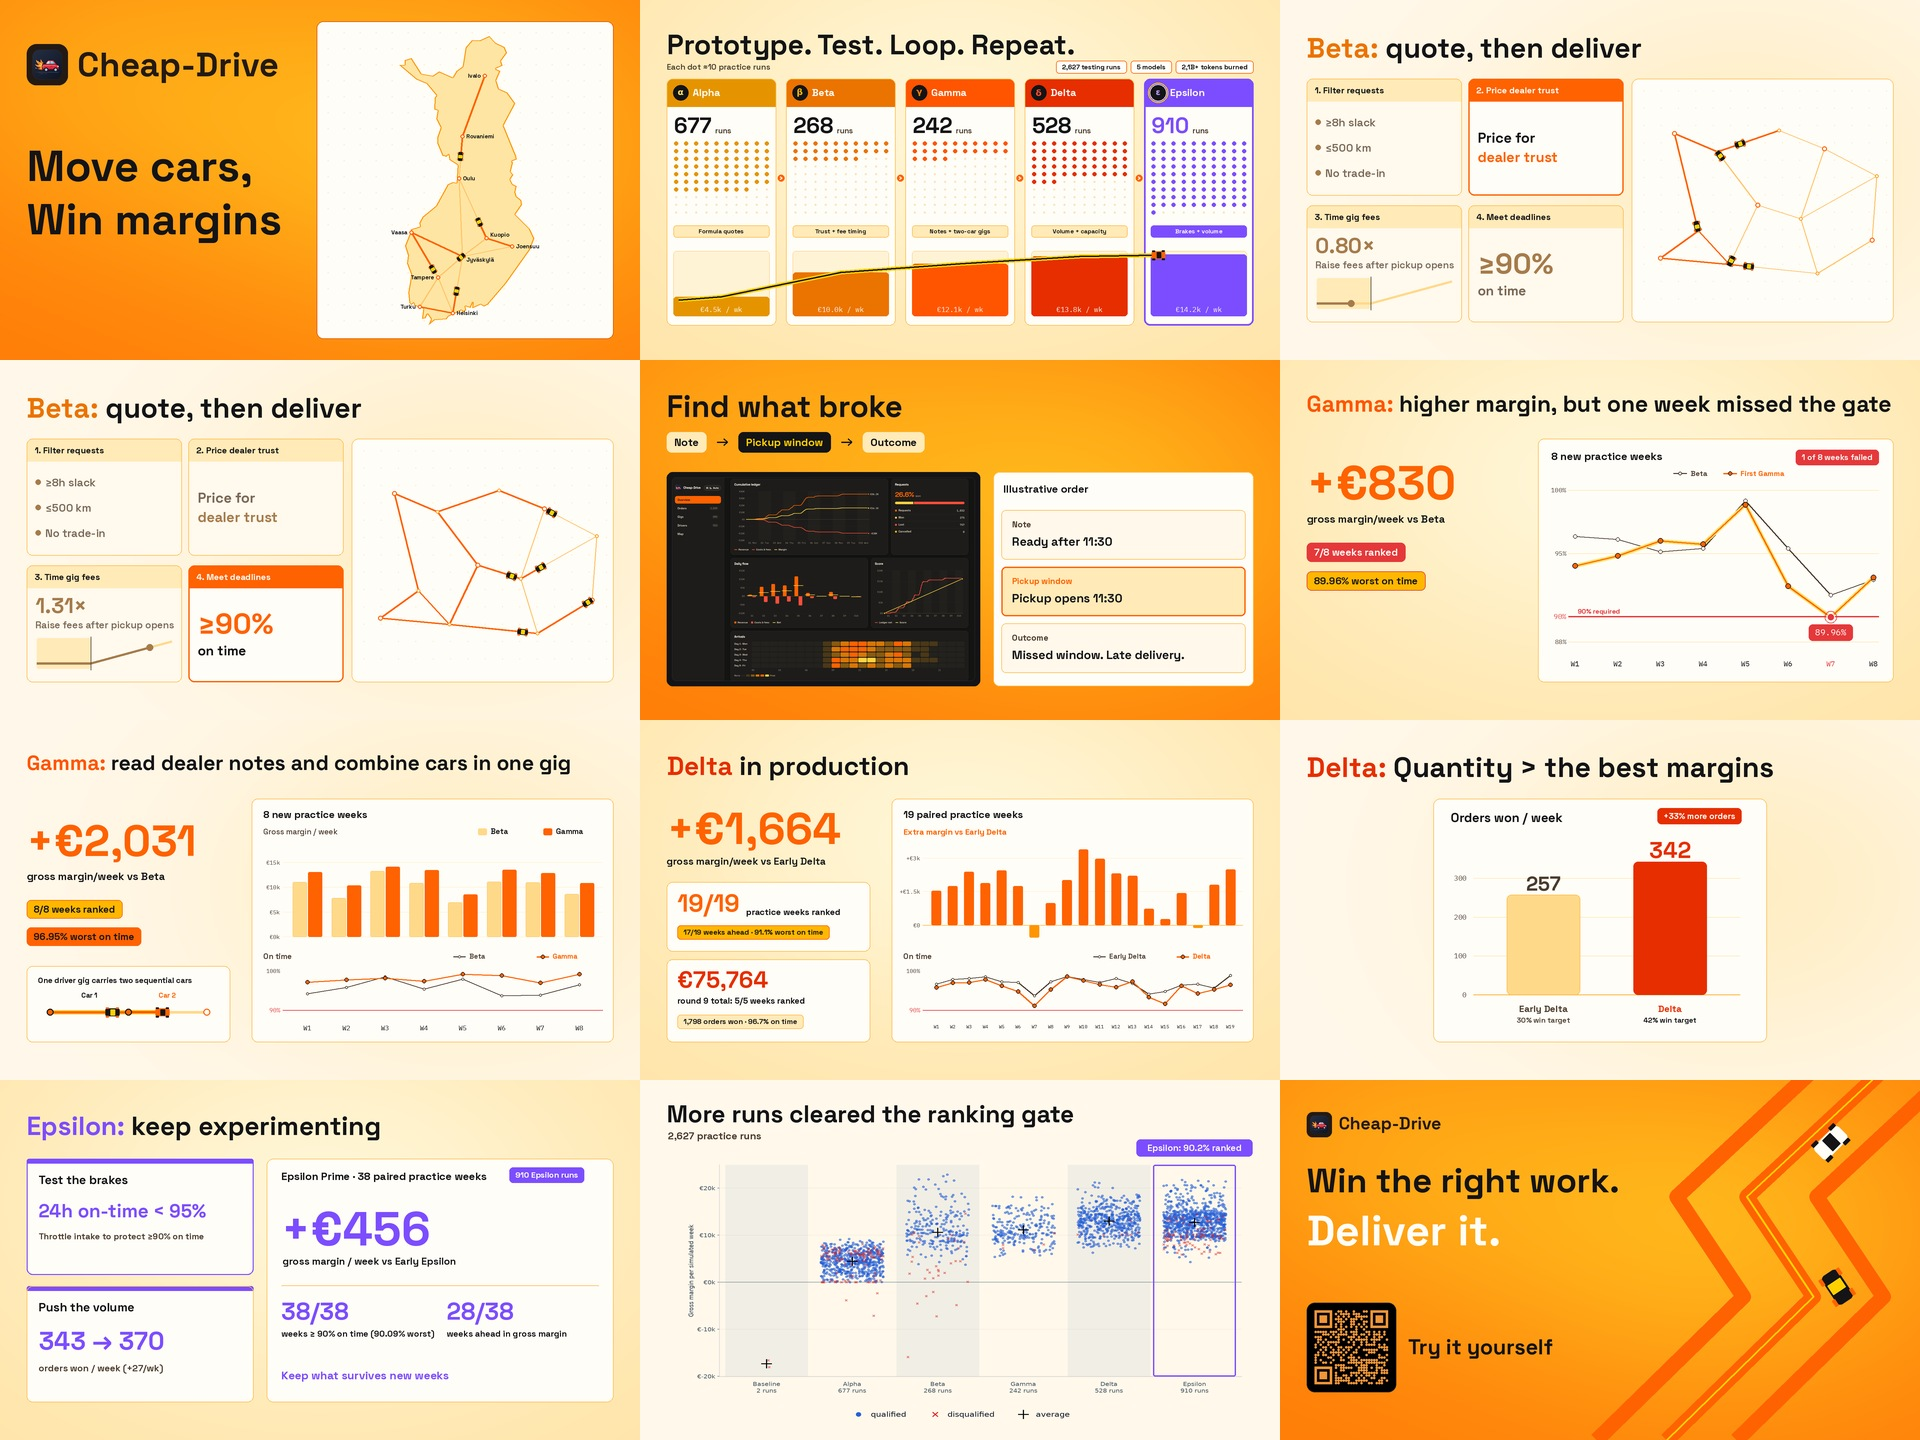
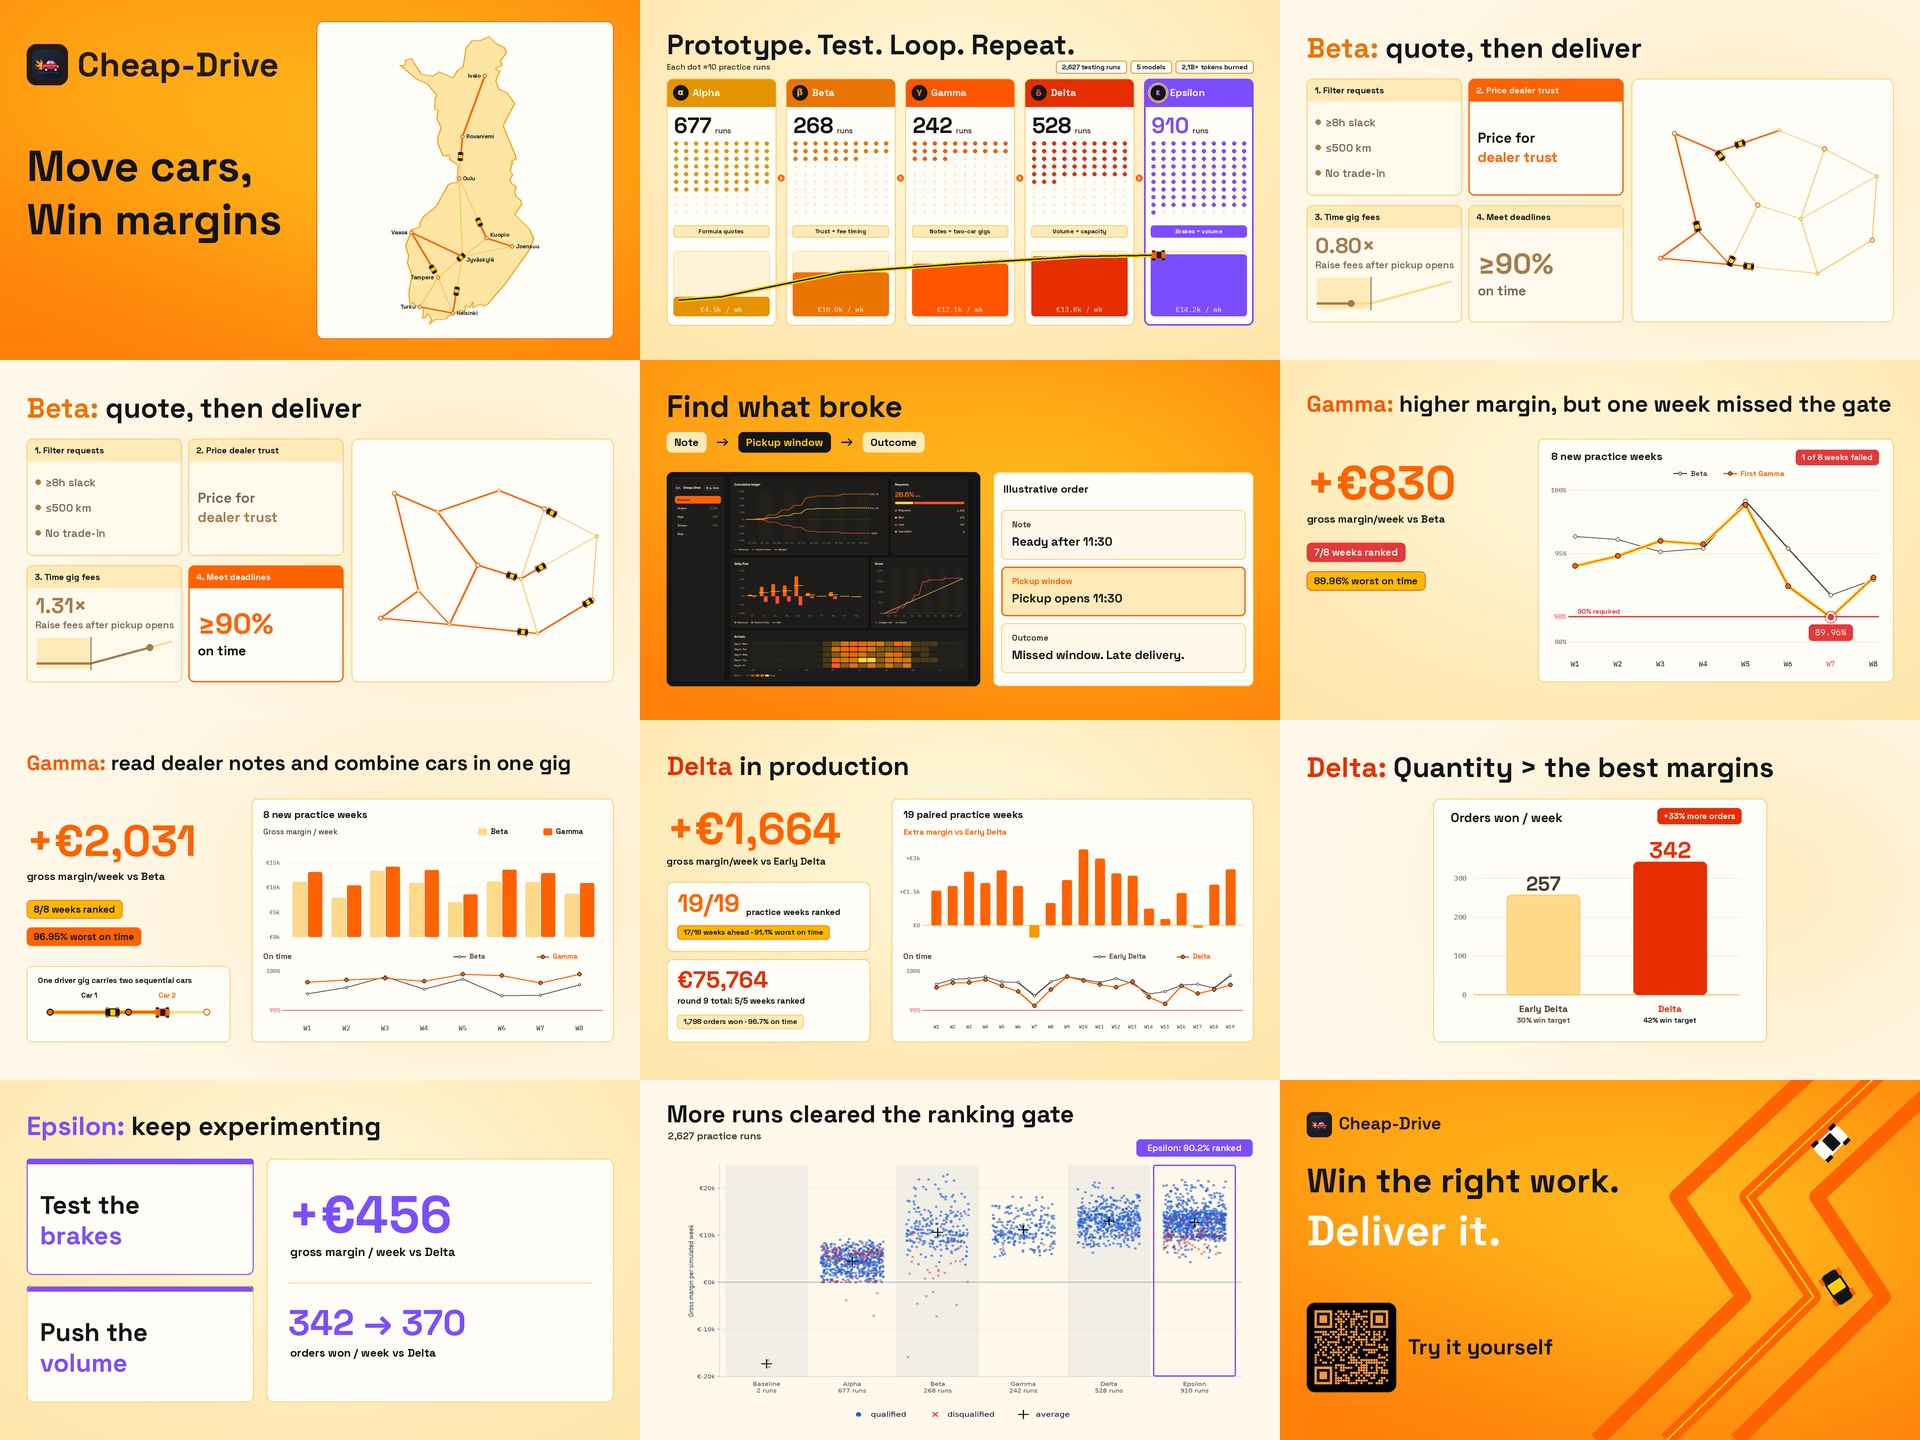
Simplify Slide 9 (Epsilon) to compare directly vs Delta and remove extra text

Changed region(s): [[0.125, 0.8125, 0.3125, 0.9688], [0.0, 0.8125, 0.0938, 0.875], [0.0, 0.9062, 0.0938, 0.9688]]

diff --git a/docs/demo-video/index.html b/docs/demo-video/index.html
@@ -40,8 +40,8 @@
 </head>
 <body>
   <main class="stage">
-    <video controls autoplay playsinline preload="auto" poster="poster.png?v=2627c" src="cheap-drive-demo.mp4?v=2627c">
-      <track kind="captions" src="captions.vtt?v=2627c" srclang="en" label="English">
+    <video controls autoplay playsinline preload="auto" poster="poster.png?v=2627d" src="cheap-drive-demo.mp4?v=2627d">
+      <track kind="captions" src="captions.vtt?v=2627d" srclang="en" label="English">
     </video>
   </main>
 </body>

diff --git a/docs/demo-video/render.py b/docs/demo-video/render.py
@@ -1010,47 +1010,37 @@ def delta_iteration(t):
 
 
 # ---------------------------------------------------------------------------
-# Slide 9 (53–60s): Epsilon: keep experimenting (matching presentation Slide 9)
+# Slide 9 (53–60s): Epsilon: keep experimenting (clean comparison vs Delta)
 # ---------------------------------------------------------------------------
 def epsilon_slide(t):
     im = base_canvas('sunburst').copy()
     eps_col = '#7C4DFF'
     enter_model_hdr(im, 'Epsilon:', ' keep experimenting', 80, 88, 78, t, .05, model_color=eps_col, rest_color=INK, weight=700)
 
-    # Left column: Two clean top-accented cards ("Test the brakes", "Push the volume") aligned to y = 966
+    # Left column: Two clean, bold pillar cards matching Presentation Slide 9
     rect(im, (80, 236, 760, 584), CARD, None, r=18)
-    rect(im, (80, 236, 760, 250), eps_col, None, r=18)
-    rect(im, (80, 244, 760, 250), eps_col, None, r=0)
+    rect(im, (80, 236, 760, 252), eps_col, None, r=18)
+    rect(im, (80, 244, 760, 252), eps_col, None, r=0)
     rect(im, (80, 236, 760, 584), None, eps_col, r=18, width=3)
-    txt(im, 'Test the brakes', 116, 276, 36, INK, 700)
-    txt(im, '24h on-time < 95%', 116, 356, 56, eps_col, 700)
-    txt(im, 'Throttle intake to protect ≥90% on time', 116, 452, 26, MUTED_INK, 650)
+    txt(im, 'Test the', 120, 326, 76, INK, 700)
+    txt(im, 'brakes', 120, 418, 76, eps_col, 700)
 
     rect(im, (80, 618, 760, 966), CARD, None, r=18)
-    rect(im, (80, 618, 760, 632), eps_col, None, r=18)
-    rect(im, (80, 626, 760, 632), eps_col, None, r=0)
+    rect(im, (80, 618, 760, 634), eps_col, None, r=18)
+    rect(im, (80, 626, 760, 634), eps_col, None, r=0)
     rect(im, (80, 618, 760, 966), None, GOLD_LINE, r=18, width=2)
-    txt(im, 'Push the volume', 116, 658, 36, INK, 700)
-    txt(im, '343 → 370', 116, 734, 76, eps_col, 700)
-    txt(im, 'orders won / week (+27/wk)', 116, 846, 28, MUTED_INK, 650)
+    txt(im, 'Push the', 120, 708, 76, INK, 700)
+    txt(im, 'volume', 120, 800, 76, eps_col, 700)
 
-    # Right column: Epsilon Prime across 38 paired practice weeks + Keep what survives new weeks
+    # Right column: Clean comparison of Epsilon vs Delta (no extra text clutter)
     rect(im, (800, 236, 1840, 966), CARD, GOLD_LINE, r=20, width=2)
-    txt(im, 'Epsilon Prime · 38 paired practice weeks', 844, 268, 32, INK, 700)
-    badge(im, '910 Epsilon runs', 1528, 262, color=CARD, bg=eps_col, size=24, weight=700)
-
     p_cnt = ease((t - 0.2) / 0.9)
-    txt(im, f'+€{456.04 * p_cnt:,.0f}', 844, 356, 142, eps_col, 700)
-    txt(im, 'gross margin / week vs Early Epsilon', 848, 524, 30, INK, 650)
+    txt(im, f'+€{456.04 * p_cnt:,.0f}', 864, 304, 156, eps_col, 700)
+    txt(im, 'gross margin / week vs Delta', 870, 492, 36, INK, 700)
 
-    line(im, [(844, 616), (1796, 616)], GOLD_LINE, 2)
-    txt(im, '38/38', 844, 648, 72, eps_col, 700)
-    txt(im, 'weeks ≥ 90% on time (90.09% worst)', 844, 744, 26, INK, 650)
-
-    txt(im, '28/38', 1340, 648, 72, eps_col, 700)
-    txt(im, 'weeks ahead in gross margin', 1340, 744, 26, INK, 650)
-
-    txt(im, 'Keep what survives new weeks', 844, 864, 34, eps_col, 700)
+    line(im, [(864, 608), (1776, 608)], GOLD_LINE, 2)
+    txt(im, '342 → 370', 864, 658, 108, eps_col, 700)
+    txt(im, 'orders won / week vs Delta', 870, 796, 34, INK, 700)
 
     return im
 
